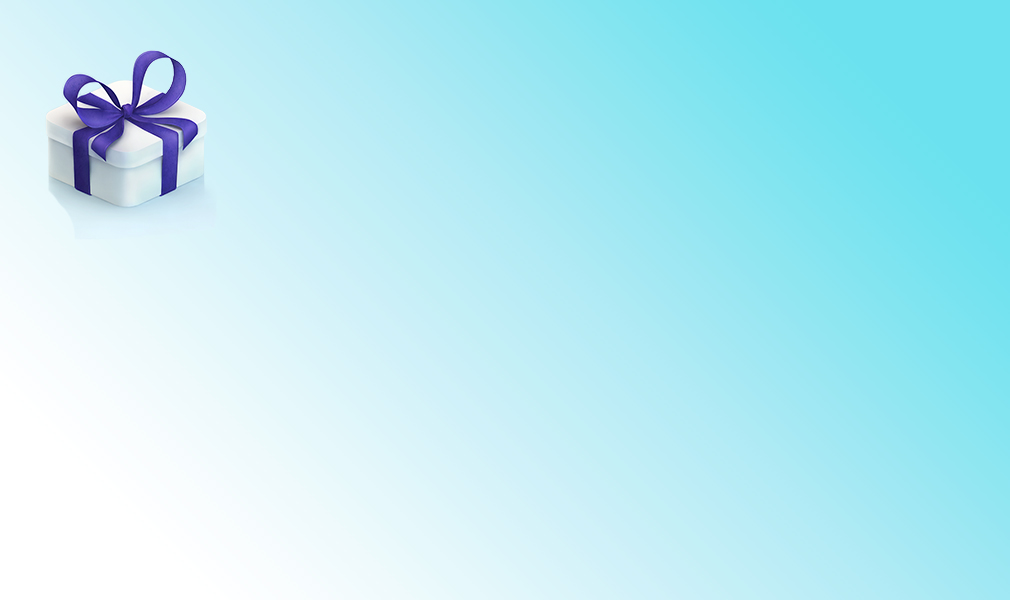
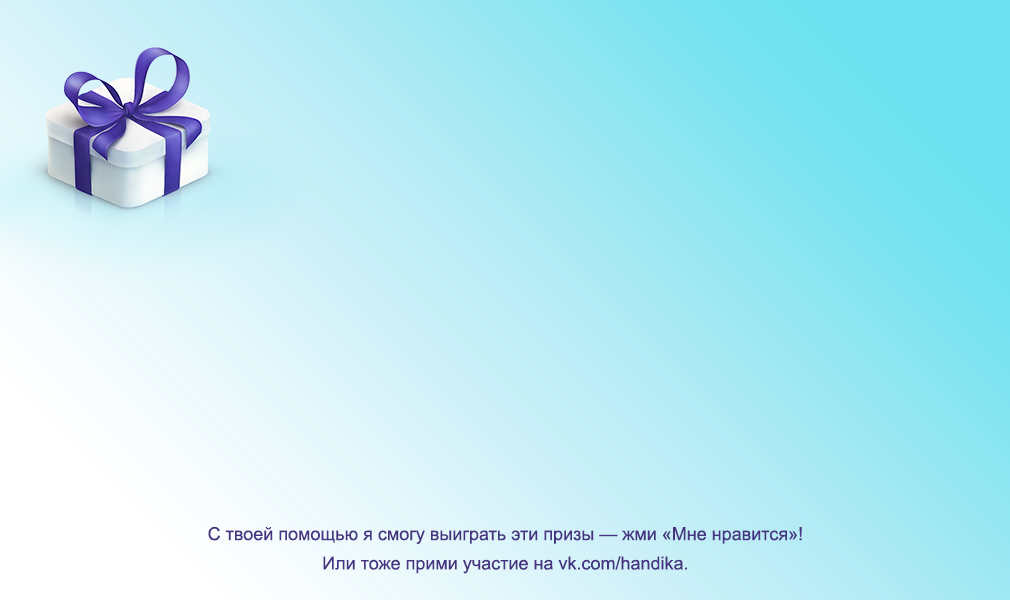
last fixes

Changed region(s): [[0.0, 0.06, 0.2149, 0.36], [0.1842, 0.87, 0.798, 0.9], [0.3069, 0.93, 0.6752, 0.96]]

diff --git a/box_app/styles.css b/box_app/styles.css
@@ -76,6 +76,7 @@ h1 {
 }
 .b-step_second {
   padding-top: 24px;
+  margin-bottom: -50px;
 }
 
 .b-step_stat {
@@ -96,11 +97,6 @@ h1 {
   color: #ffffff;
   cursor: pointer;
   outline: none;
-  -webkit-transition: opacity .3s ease;
-     -moz-transition: opacity .3s ease;
-      -ms-transition: opacity .3s ease;
-       -o-transition: opacity .3s ease;
-          transition: opacity .3s ease;
 }
 
 .b-button:hover {
@@ -189,11 +185,6 @@ h1 {
   position: relative;
   width: 181px;
   height: 355px;
-  -webkit-transition: background-color .5s, box-shadow .5s;
-     -moz-transition: background-color .5s, box-shadow .5s;
-      -ms-transition: background-color .5s, box-shadow .5s;
-       -o-transition: background-color .5s, box-shadow .5s;
-          transition: background-color .5s, box-shadow .5s;
 }
 .photo-wrap-inner {
   padding: 5px;
@@ -202,11 +193,6 @@ h1 {
   border-radius: 10px;
   width: 170px;
   height: 170px;
-  -webkit-transition: background-color .5s;
-     -moz-transition: background-color .5s;
-      -ms-transition: background-color .5s;
-       -o-transition: background-color .5s;
-          transition: background-color .5s;
 }
 
 .b-price {
@@ -222,11 +208,6 @@ h1 {
   height: 35px;
   border-radius: 17px;
   line-height: 35px;
-  -webkit-transition: background-color .5s;
-     -moz-transition: background-color .5s;
-      -ms-transition: background-color .5s;
-       -o-transition: background-color .5s;
-          transition: background-color .5s;
 }
 
 .b-photo {
@@ -274,11 +255,6 @@ h1 {
   font-size: .73em;
   left: 5px;
   bottom: 5px;
-  -webkit-transition: background-color .5s;
-     -moz-transition: background-color .5s;
-      -ms-transition: background-color .5s;
-       -o-transition: background-color .5s;
-          transition: background-color .5s;
 }
 
 .b-item_selected .b-price {
@@ -290,8 +266,14 @@ h1 {
   margin-top: -11px;
   border-radius: 5px;
   padding-top: 11px;
-  z-index: 3;
+  z-index: 9;
   box-shadow: 0 0 15px #51759f;
+}
+
+.finish-selection {
+  position: relative;
+  z-index: 8;
+  padding-bottom: 50px;
 }
 
 .b-master {
@@ -334,11 +316,6 @@ h1 {
 
 .b-selected-item, .b-master, .b-button_want {
   opacity: 0;
-  -webkit-transition: opacity .5s;
-     -moz-transition: opacity .5s;
-      -ms-transition: opacity .5s;
-       -o-transition: opacity .5s;
-          transition: opacity .5s;
 }
 
 .b-item_selected .b-selected-item {
@@ -907,3 +884,9 @@ h1 {
   width: 25px;
   text-align: center;
   color: #f40044;
+}
+
+.see-more {
+  margin: -5px 0 20px;
+  font-size: 12px;
+}

diff --git a/box_app/js/handika_ctrl.js b/box_app/js/handika_ctrl.js
@@ -76,12 +76,15 @@ angular.module("vk").controller('HandikaCtrl', ['$scope', 'vkontakte', '$http', 
   };
 
   $scope.post = function(){
-    var word = 'выбрал';
+    var phrase = 'Я выбрал эти призы в конкурсе «Коробка желаний»:';
     if ($scope.current_user.sex == 1) {
-      word += 'а';
+      phrase = 'Я выбрала эти призы в конкурсе «Коробка желаний»:';
+    }
+    else if ($scope.current_user.sex == 0) {
+      phrase = 'Мои призы в конкурсе «Коробка желаний»';
     }
 
-    service.wallPost({message: 'Я '+word+' эти призы в конкурсе Handika Box', attachments: 'photo'+cover.owner_id+'_' + cover.pid}, function(data){
+    service.wallPost({message: phrase, attachments: 'photo'+cover.owner_id+'_' + cover.pid}, function(data){
       if (data.response.post_id) {
         $scope.posted = true;
         setStep(4);

diff --git a/box_app/index.php b/box_app/index.php
@@ -9,7 +9,7 @@
   <div id="wrapper"  ng-show="user_loaded" ng-load="load()" ng-cloak>
     <div class="b-shadow" ng-show="showStatistics || secondTime || showRules"></div>
     <div id="step1" ng-show="step == 1" class="b-step b-step_first">
-      <h1 class="b-title_first">Handika Box</h1>
+      <h1 class="b-title_first">Коробка желаний</h1>
       <p class="b-description b-description_first">
         Комплимент подписчикам Хандики к&nbsp;Новому Году&nbsp;&mdash; шанс выиграть коробку<br />наполненную вашими пожеланиями. Каждый день мы&nbsp;принимаем от&nbsp;вас заявки,<br />а в&nbsp;день окончания конкурса мы&nbsp;определим счастливчика, которому мы&nbsp;вышлем<br />заботливо упакованную коробку с&nbsp;выбранными авторскими товарами.&nbsp;Приступим?
       </p>
@@ -49,6 +49,7 @@
       <div class="finish-selection">
         <div class="b-center">
           <p ng-class="hasSelected && 'invisible'" class="b-hint">Чтобы продолжить, положи что-нибудь в коробку.</p>
+          <p class="see-more">Рассмотреть призы подробнее можно в альбоме конкурса — <a href="//vk.com/album-53083410_183726240" target="_blank">http://vk.com/handika/album...</a></p>
           <img src="images/loader.gif" alt="" ng-show="requestStarted">
         </div>
         <button class="b-button b-button_big" ng-click="next()" ng-hide="requestStarted" ng-disabled="!hasSelected">Далее</button>
@@ -80,7 +81,7 @@
     <div id="step4" ng-show="step==4" class="b-step b-step_finish">
       <h1 class="h1_big">Финиш</h1>
       <p class="b-fuck-yeah">Теперь мы опубликуем картинку с набором ваших товаров в альбоме конкурса, а<br />вам останется только рассказать о своей коробке друзьям. Победа тем ближе,<br />чем большему числу людей понравится ваш набор. Не забывайте, что конкурс только<br /> для подписчиков паблика <a href="//vk.com/handika" target="_blank">Handika</a>.</p>
-      <button class="b-button b-button_big" ng-click="start(); showStatistics = true;">Смотреть участников</button>
+      <button class="b-button b-button_big" ng-click="showStatistics = true;">Смотреть участников</button>
     </div>
     <div ng-show="showRules" class="b-popup b-popup_rules">
       <span role="link" ng-click="showRules = false" class="close">&times;</span>

diff --git a/box_app/glue.php b/box_app/glue.php
@@ -46,15 +46,19 @@ imagecopyresampled($result, $image, 0, 0, 0, 0, WIDTH, HEIGHT, WIDTH, HEIGHT);
 $header_color = imagecolorallocate($result, 247, 151, 29);
 $text_color = imagecolorallocate($result, 70, 51, 130);
 
-$choose_word = 'выбрал';
+
+$choose_text = 'Я выбрал эти призы в конкурсе «Коробка желаний»:';
+$text_left = 226;
 if ($input->sex == 1) {
-  $choose_word .= 'а';
+  $choose_text = 'Я выбрала эти призы в конкурсе «Коробка желаний»:';
+  $text_left = 216;
+}
+else if ($input->sex == 0) {
+  $choose_text = 'Мои призы в конкурсе «Коробка желаний»:';
+  $text_left = 246;
 }
 
-
-imagettftext($result, 24, 0, 226, 148, $header_color, FONT, "Я $choose_word эти призы в конкурсе Handika Box:");
-imagettftext($result, 15, 0, 223, 541, $text_color, FONT, 'С твоей помощью я смогу выиграть эти призы — жми «Мне нравится»!');
-imagettftext($result, 15, 0, 324, 571, $text_color, FONT, 'Или тоже прими участие на vk.com/handika.');
+imagettftext($result, 22, 0, $text_left, 148, $header_color, FONT, $choose_text);
 
 $map = array();
 if ($count == 1) {
